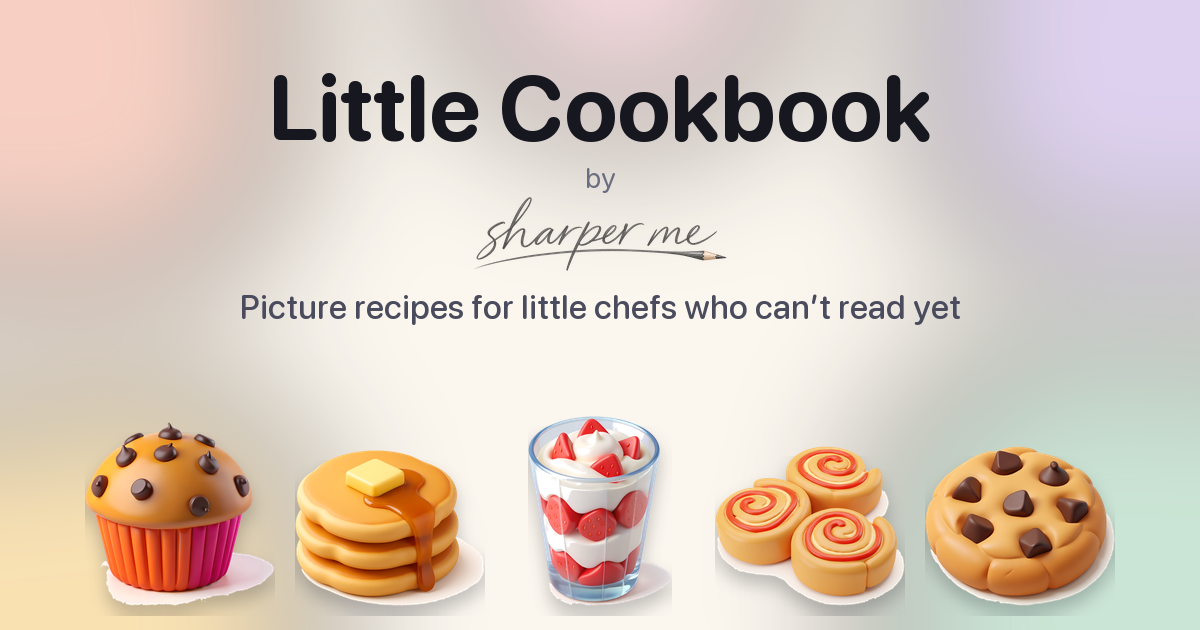
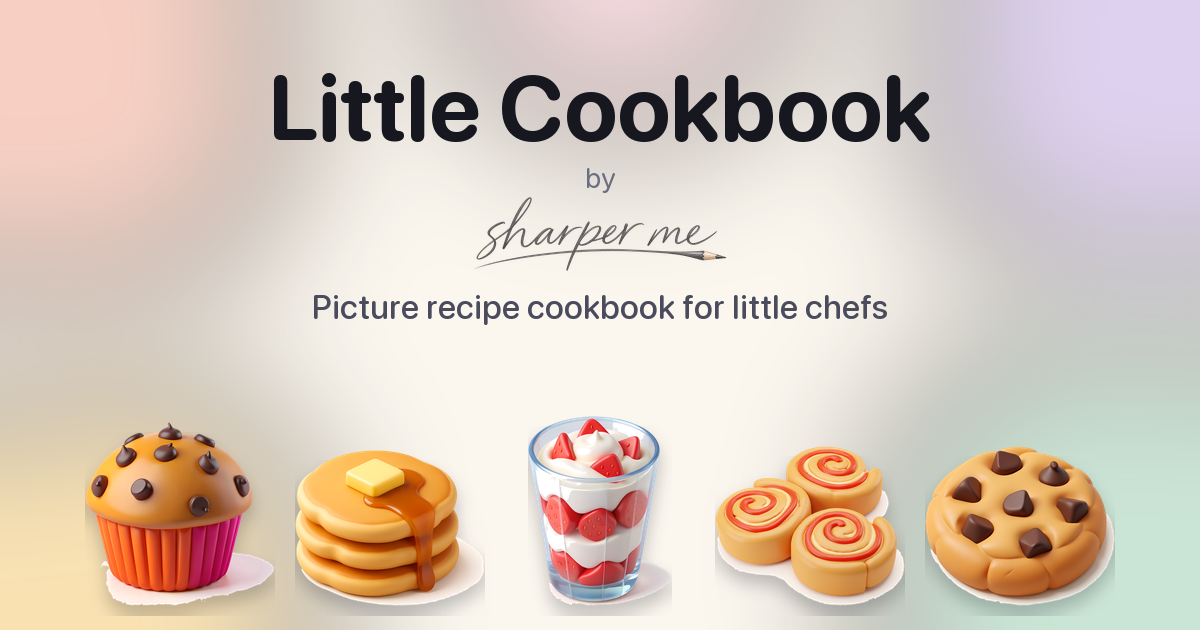
Add files via upload

Changed region(s): [[0.185, 0.4524, 0.8017, 0.5127]]

diff --git a/index.html b/index.html
@@ -15,9 +15,9 @@
 <meta property="og:type" content="website">
 <meta property="og:site_name" content="Sharper Me">
 <meta property="og:title" content="Little Cookbook">
-<meta property="og:description" content="Picture recipes for little chefs who can’t read yet.">
+<meta property="og:description" content="Picture recipe cookbook for little chefs">
 <meta property="og:url" content="https://cookbook.sharpermekids.com/">
-<meta property="og:image" content="https://cookbook.sharpermekids.com/share.png">
+<meta property="og:image" content="https://cookbook.sharpermekids.com/share.png?v=2">
 <meta property="og:image:width" content="1200">
 <meta property="og:image:height" content="630">
 <meta name="twitter:card" content="summary_large_image">
@@ -797,7 +797,7 @@
 <div class="page sm" id="app"></div>
 
 <script>
-const BUILD = "25 Sep 2026";
+const BUILD = "26 Sep 2026";
 
 
 const EDITION = {
